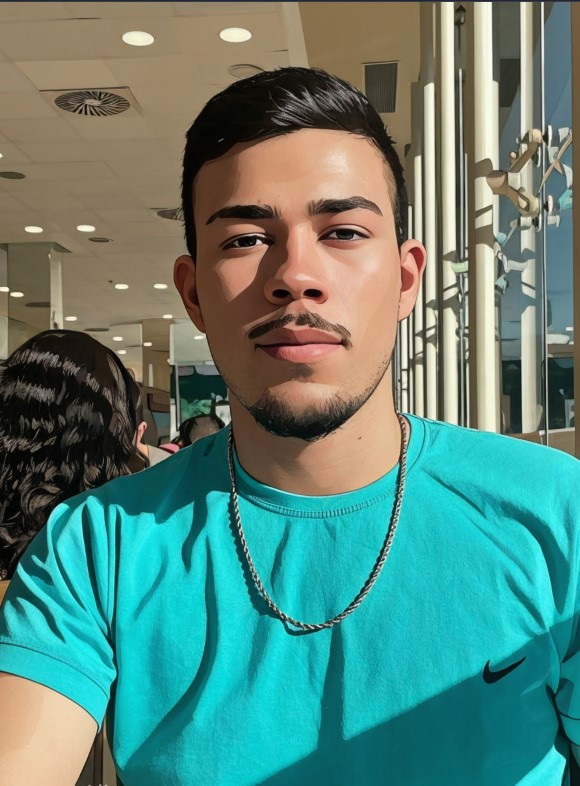
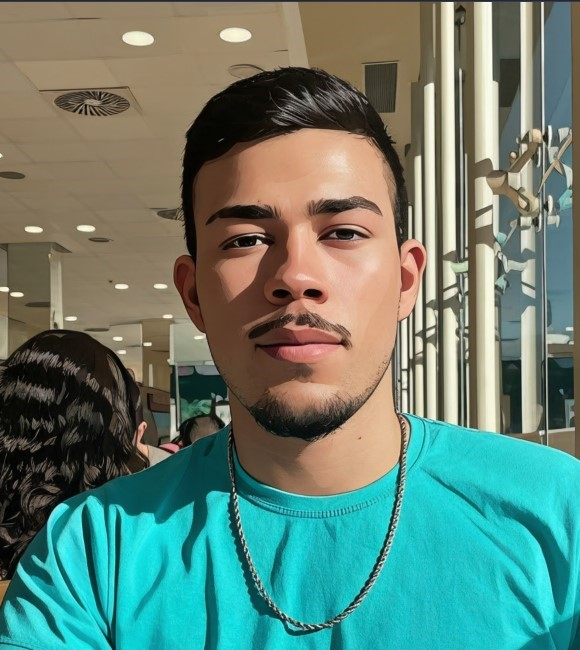
profile picture has been updated

diff --git a/projetoPortfolio/index.html b/projetoPortfolio/index.html
@@ -14,7 +14,7 @@
 <body>
     <header class="bg-dark text-white text-center py-5">
         <nav class="navbar navbar-expand-lg navbar-dark bg-dark">
-            <a class="navbar-brand" href="#">Meu Portfólio</a>
+            <a class="navbar-brand mx-5 text" href="#">Meu Portfólio</a>
             <button class="navbar-toggler" type="button"
                 data-bs-toggle="collapse" data-bs-target="#navbarNav"
                 aria-controls="navbarNav" aria-expanded="false"
@@ -22,7 +22,7 @@
                 <span class="navbar-toggler-icon"></span>
             </button>
             <div class="collapse navbar-collapse" id="navbarNav">
-                <ul class="navbar-nav ms-auto">
+                <ul class="navbar-nav ms-auto mx-4">
                     <li class="nav-item"><a class="nav-link" href="#sobre">Sobre Mim</a></li>
                     <li class="nav-item"><a class="nav-link" href="#projetos">Projetos</a></li>
                     <li class="nav-item"><a class="nav-link" href="#contato">Contato</a></li>
@@ -39,9 +39,10 @@
         <div class="container">
             <div class="row">
                 <div class="col-md-4">
-                    <img src="img/perfil.jpg" class="img-fluid rounded-circle mb-3" alt="Perfil">
+                    <img src="img/perfil.jpg" class="img-fluid rounded-circle mb-3 border border-primary shadow-sm" alt="Perfil" style="width: 320px; height: 300px;">
+
                 </div>
-                <div class="col-md-8">
+                <div class="col-md-5">
                     <h2>Sobre Mim</h2>
                     <p>Olá! Meu nome é Matheus Freitas, sou um desenvolvedor Full Stack com paixão por criar soluções inovadoras e eficientes. Tenho experiência em diversas tecnologias e frameworks, e estou sempre buscando aprender e me aprimorar.</p>
                     <p>Minhas habilidades incluem HTML, CSS, JavaScript, React, Node.js, entre outras. Adoro trabalhar em equipe e acredito que a colaboração é a chave para o sucesso de qualquer projeto.</p>

diff --git a/projetoPortfolio/css/custom.css b/projetoPortfolio/css/custom.css
@@ -34,3 +34,11 @@ header::before {
 #sobre img {
     border: 5px solid #fff;
 }
+#projetos .card {
+    box-shadow: 0 4px 8px rgba(0, 0, 0, 0.1);
+    transition: transform 0.3s;
+   }
+   #projetos .card:hover {
+    transform: scale(1.05);
+   }
+   
